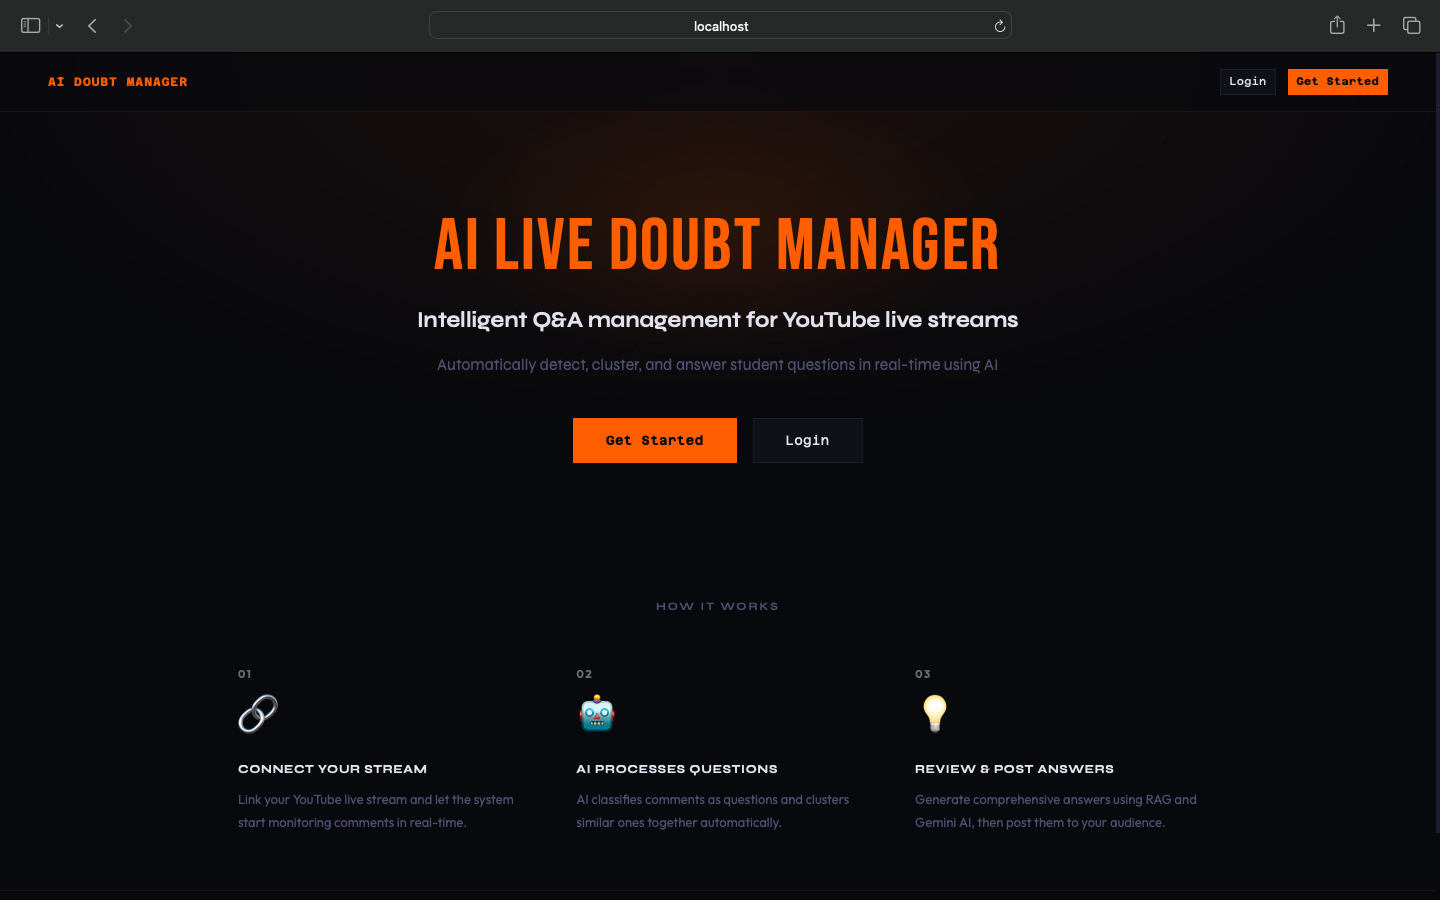
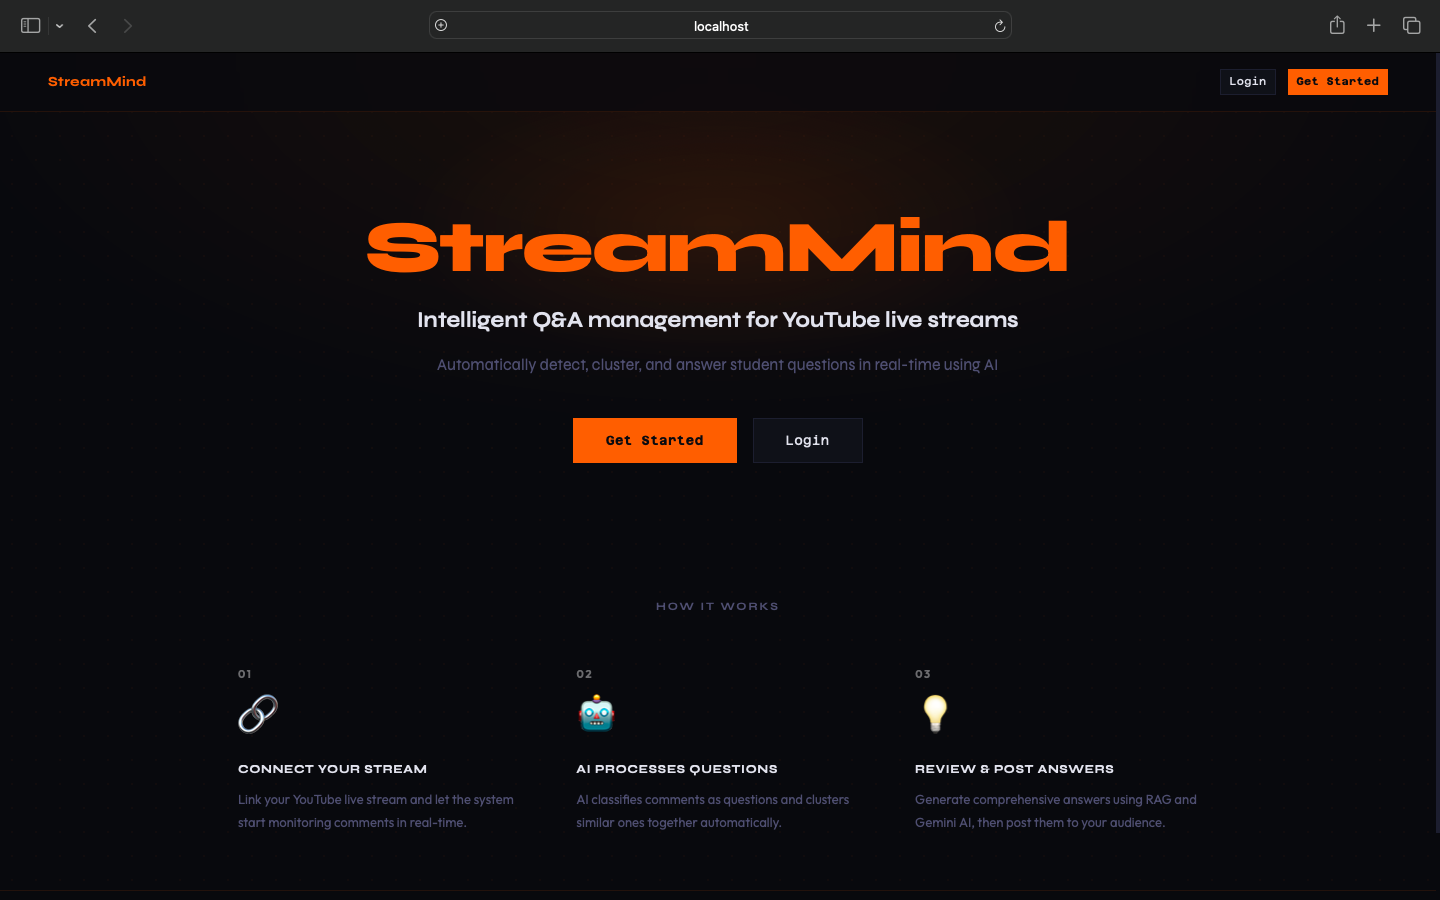
chore: update branding to StreamMind with Syne font
Rename frontend package, update API description, switch display font
from Bebas Neue to Syne, and refresh screenshot assets.

Changed region(s): [[0.25, 0.2178, 0.75, 0.3111], [0.0312, 0.0622, 0.125, 0.0933], [0.4062, 0.7778, 0.4375, 0.8089]]

diff --git a/frontend/src/index.css b/frontend/src/index.css
@@ -208,12 +208,11 @@ body {
 }
 
 .header-wordmark {
-  font-family: var(--font-display);
-  font-size: 11px;
+  font-family: 'Syne', sans-serif;
+  font-size: 14px;
   font-weight: 700;
-  letter-spacing: 0.1em;
+  letter-spacing: 0.02em;
   color: var(--color-accent);
-  text-transform: uppercase;
   white-space: nowrap;
   flex-shrink: 0;
 }
@@ -290,12 +289,11 @@ body {
 
 /* Logo alias for landing page */
 .logo {
-  font-family: var(--font-display);
+  font-family: 'Syne', sans-serif;
   font-weight: 700;
-  font-size: 12px;
+  font-size: 14px;
   color: var(--color-accent);
-  letter-spacing: 0.08em;
-  text-transform: uppercase;
+  letter-spacing: 0.02em;
 }
 
 /* ============================================================
@@ -1207,8 +1205,8 @@ button:disabled { opacity: 0.4; pointer-events: none; }
 .landing-hero > * { position: relative; z-index: 1; }
 
 .landing-hero h1 {
-  font-family: 'Bebas Neue', sans-serif; font-size: 72px; font-weight: 400;
-  color: var(--color-accent); margin-bottom: 20px; letter-spacing: 0.03em;
+  font-family: 'Syne', sans-serif; font-size: 72px; font-weight: 800;
+  color: var(--color-accent); margin-bottom: 20px; letter-spacing: -0.02em;
   line-height: 1;
 }
 .landing-hero .tagline {

diff --git a/backend/app/main.py b/backend/app/main.py
@@ -43,7 +43,7 @@ logger = logging.getLogger(__name__)
 
 app = FastAPI(
     title=settings.app_name,
-    description="API for managing live doubt sessions with YouTube integration",
+    description="API for real-time YouTube teaching sessions with AI-powered Q&A",
     version=settings.app_version,
     debug=settings.debug,
 )
